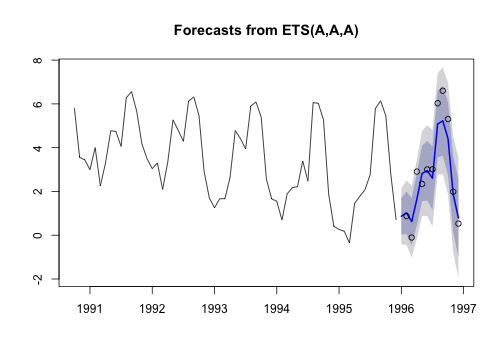
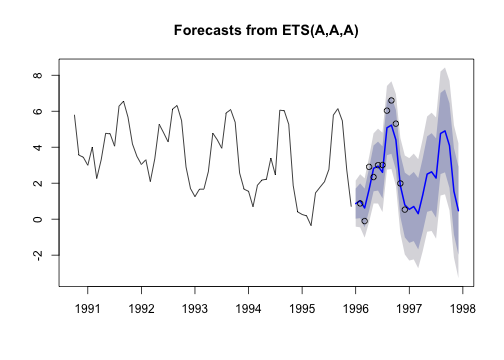
update seasonality

diff --git a/Forecasting_4-2_-_ETS_Seasonality.html b/Forecasting_4-2_-_ETS_Seasonality.html
@@ -171,7 +171,7 @@ fit &lt;- ets(traindat, model="AAA")
 ```
 
 ```r
-fr &lt;- forecast(fit, h=12)
+fr &lt;- forecast(fit, h=24)
 plot(fr)
 points(window(chinookts, c(1996,1), c(1996,12)))
 ```
